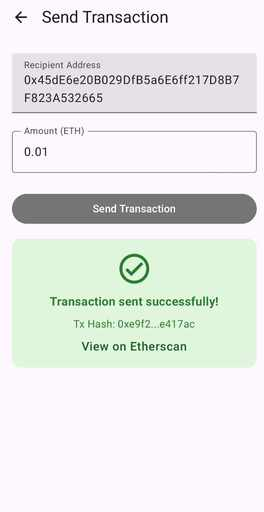
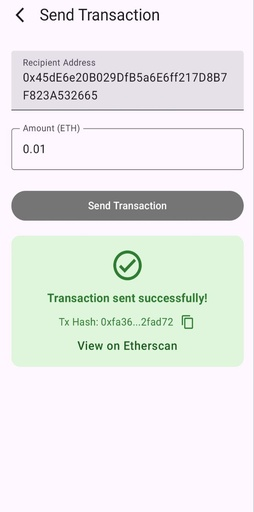
CW-6: Add hash copy button

Changed region(s): [[0.0276, 0.0, 1.0, 1.0], [0.1654, 0.0, 0.6339, 0.0625], [0.0551, 0.0, 0.1102, 0.0625]]

diff --git a/app/src/main/java/com/example/cryptowallet/screens/transaction/SendTransactionScreen.kt b/app/src/main/java/com/example/cryptowallet/screens/transaction/SendTransactionScreen.kt
@@ -5,17 +5,20 @@ import androidx.compose.foundation.clickable
 import androidx.compose.foundation.layout.Arrangement
 import androidx.compose.foundation.layout.Box
 import androidx.compose.foundation.layout.Column
+import androidx.compose.foundation.layout.Row
 import androidx.compose.foundation.layout.Spacer
 import androidx.compose.foundation.layout.fillMaxSize
 import androidx.compose.foundation.layout.fillMaxWidth
 import androidx.compose.foundation.layout.height
 import androidx.compose.foundation.layout.padding
 import androidx.compose.foundation.layout.size
+import androidx.compose.foundation.layout.width
 import androidx.compose.foundation.shape.RoundedCornerShape
 import androidx.compose.foundation.text.KeyboardOptions
 import androidx.compose.material.icons.Icons
-import androidx.compose.material.icons.outlined.ArrowBack
+import androidx.compose.material.icons.outlined.ArrowBackIosNew
 import androidx.compose.material.icons.outlined.CheckCircle
+import androidx.compose.material.icons.outlined.ContentCopy
 import androidx.compose.material3.Button
 import androidx.compose.material3.CircularProgressIndicator
 import androidx.compose.material3.ExperimentalMaterial3Api
@@ -33,10 +36,13 @@ import androidx.compose.runtime.getValue
 import androidx.compose.ui.Alignment
 import androidx.compose.ui.Modifier
 import androidx.compose.ui.graphics.Color
+import androidx.compose.ui.platform.ClipboardManager
+import androidx.compose.ui.platform.LocalClipboardManager
 import androidx.compose.ui.text.input.KeyboardType
 import androidx.compose.ui.unit.dp
 import androidx.compose.ui.platform.LocalContext
 import androidx.compose.ui.res.stringResource
+import androidx.compose.ui.text.AnnotatedString
 import androidx.compose.ui.text.font.FontWeight
 import com.example.cryptowallet.R
 import com.example.cryptowallet.config.EthereumConfig
@@ -50,13 +56,15 @@ fun SendTransactionScreen(
 ) {
     val state by viewModel.state.collectAsState()
 
+    val clipboardManager: ClipboardManager = LocalClipboardManager.current
+
     Scaffold(
         topBar = {
             TopAppBar(
                 title = { Text(stringResource(R.string.send_transaction_title)) },
                 navigationIcon = {
                     IconButton(onClick = onNavigateBack) {
-                        Icon(Icons.Outlined.ArrowBack, contentDescription = "Back")
+                        Icon(Icons.Outlined.ArrowBackIosNew, contentDescription = "Back")
                     }
                 }
             )
@@ -142,11 +150,33 @@ fun SendTransactionScreen(
                             fontWeight = FontWeight.Bold
                         )
                         Spacer(modifier = Modifier.height(8.dp))
-                        Text(
-                            "Tx Hash: ${state.txHash.take(6)}...${state.txHash.takeLast(6)}",
-                            color = Color(0xFF2E7D32),
-                            style = MaterialTheme.typography.bodyMedium
-                        )
+                        Row(
+                            verticalAlignment = Alignment.CenterVertically,
+                            horizontalArrangement = Arrangement.Center,
+                            modifier = Modifier.fillMaxWidth()
+                        ) {
+                            Text(
+                                "Tx Hash: ${state.txHash.take(6)}...${state.txHash.takeLast(6)}",
+                                color = Color(0xFF2E7D32),
+                                style = MaterialTheme.typography.bodyMedium
+                            )
+
+                            Spacer(modifier = Modifier.width(8.dp))
+
+                            IconButton(
+                                onClick = {
+                                    clipboardManager.setText(AnnotatedString(state.txHash))
+                                },
+                                modifier = Modifier.size(24.dp)
+                            ) {
+                                Icon(
+                                    imageVector = Icons.Outlined.ContentCopy,
+                                    contentDescription = "Copy Tx Hash",
+                                    tint = Color(0xFF2E7D32),
+                                    modifier = Modifier.size(20.dp)
+                                )
+                            }
+                        }
                         Spacer(modifier = Modifier.height(8.dp))
                         Text(
                             stringResource(R.string.view_on_etherscan),

diff --git a/app/src/main/java/com/example/cryptowallet/screens/wallet/WalletDetailsScreen.kt b/app/src/main/java/com/example/cryptowallet/screens/wallet/WalletDetailsScreen.kt
@@ -6,7 +6,7 @@ import androidx.compose.foundation.rememberScrollState
 import androidx.compose.foundation.shape.RoundedCornerShape
 import androidx.compose.foundation.verticalScroll
 import androidx.compose.material.icons.Icons
-import androidx.compose.material.icons.outlined.ArrowBack
+import androidx.compose.material.icons.outlined.ArrowBackIosNew
 import androidx.compose.material3.*
 import androidx.compose.runtime.Composable
 import androidx.compose.runtime.LaunchedEffect
@@ -51,7 +51,7 @@ fun WalletDetailsScreen(
                 title = { Text(stringResource(R.string.wallet_title)) },
                 navigationIcon = {
                     IconButton(onClick = onNavigateBack) {
-                        Icon(Icons.Outlined.ArrowBack, contentDescription = "Back")
+                        Icon(Icons.Outlined.ArrowBackIosNew, contentDescription = "Back")
                     }
                 }
             )
@@ -67,6 +67,7 @@ fun WalletDetailsScreen(
                 PullToRefreshDefaults.Indicator(
                     state = pullToRefreshState,
                     isRefreshing = isRefreshing,
+                    modifier = Modifier.align(Alignment.Center)
                 )
             },
             modifier = Modifier

diff --git a/app/src/main/java/com/example/cryptowallet/screens/auth/VerifyEmailScreen.kt b/app/src/main/java/com/example/cryptowallet/screens/auth/VerifyEmailScreen.kt
@@ -8,7 +8,7 @@ import androidx.compose.foundation.layout.padding
 import androidx.compose.foundation.layout.size
 import androidx.compose.material.icons.Icons
 import androidx.compose.material.icons.filled.Email
-import androidx.compose.material.icons.outlined.ArrowBack
+import androidx.compose.material.icons.outlined.ArrowBackIosNew
 import androidx.compose.material3.Button
 import androidx.compose.material3.CircularProgressIndicator
 import androidx.compose.material3.ExperimentalMaterial3Api
@@ -55,7 +55,7 @@ fun VerifyEmailScreen(
                 navigationIcon = {
                     IconButton(onClick = onNavigateBack) {
                         Icon(
-                            imageVector = Icons.Outlined.ArrowBack,
+                            imageVector = Icons.Outlined.ArrowBackIosNew,
                             contentDescription = "Back"
                         )
                     }
